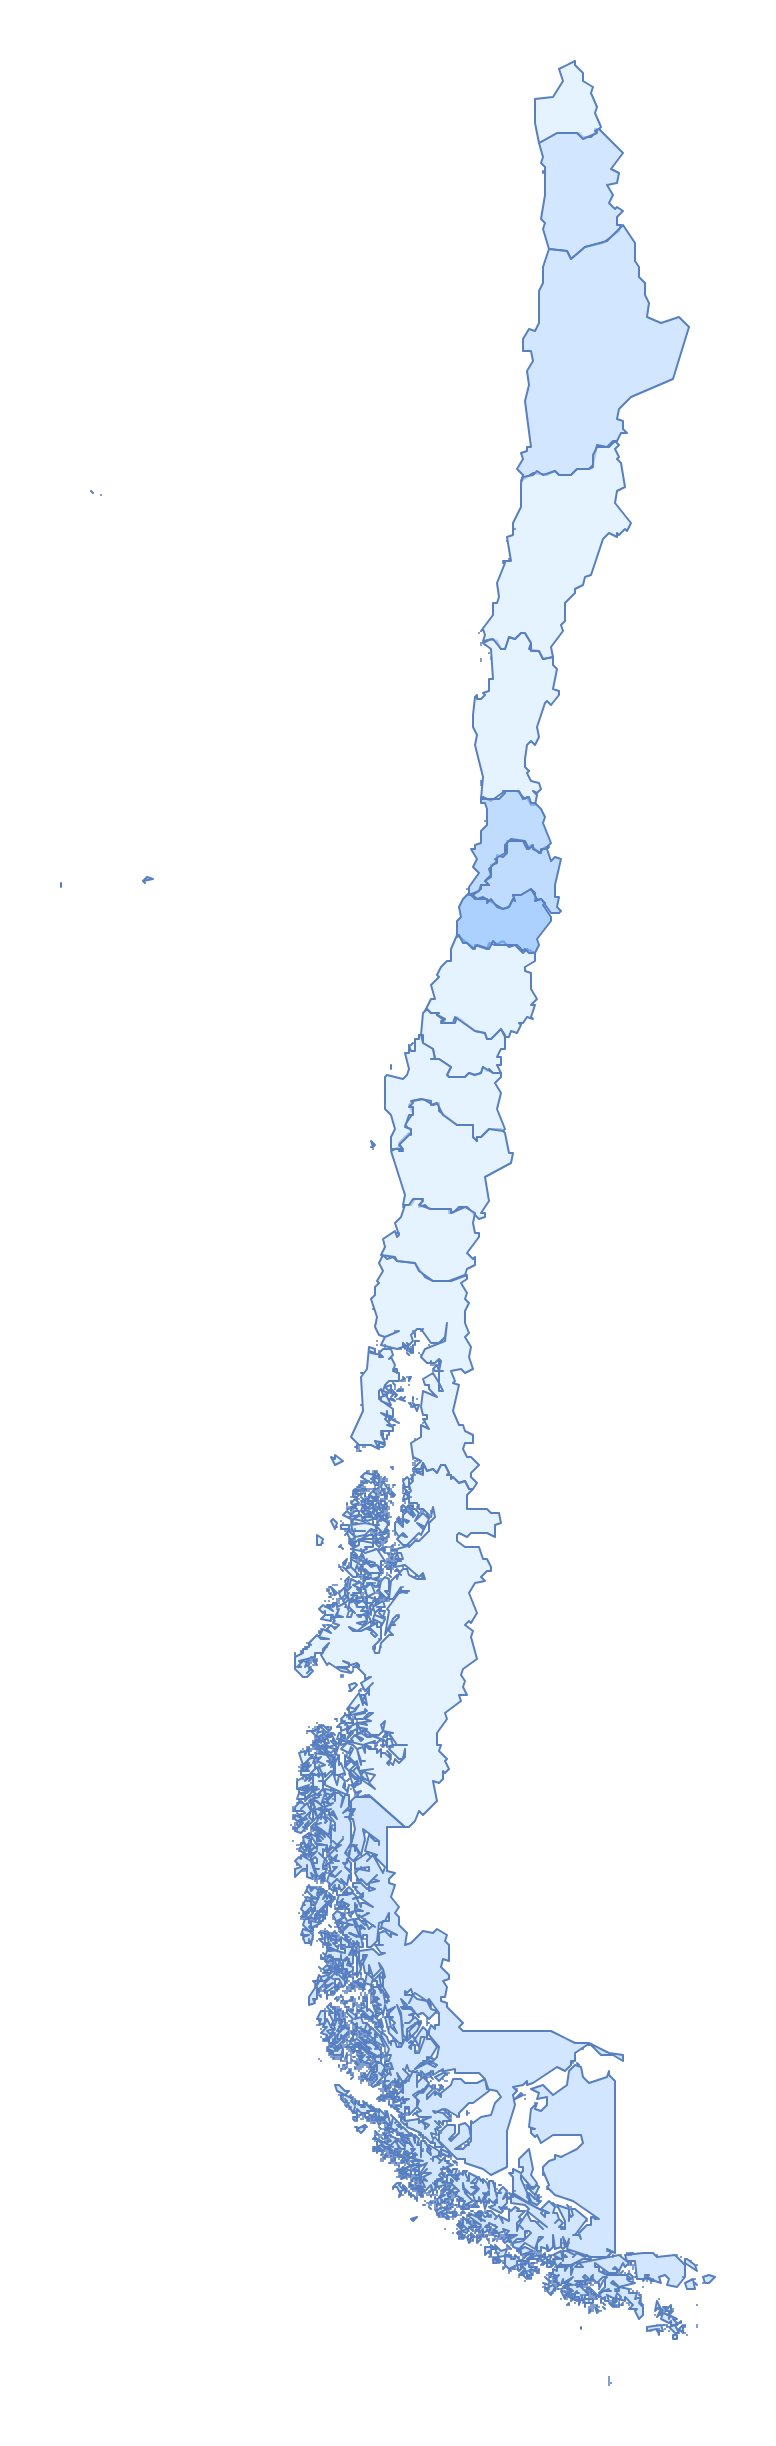
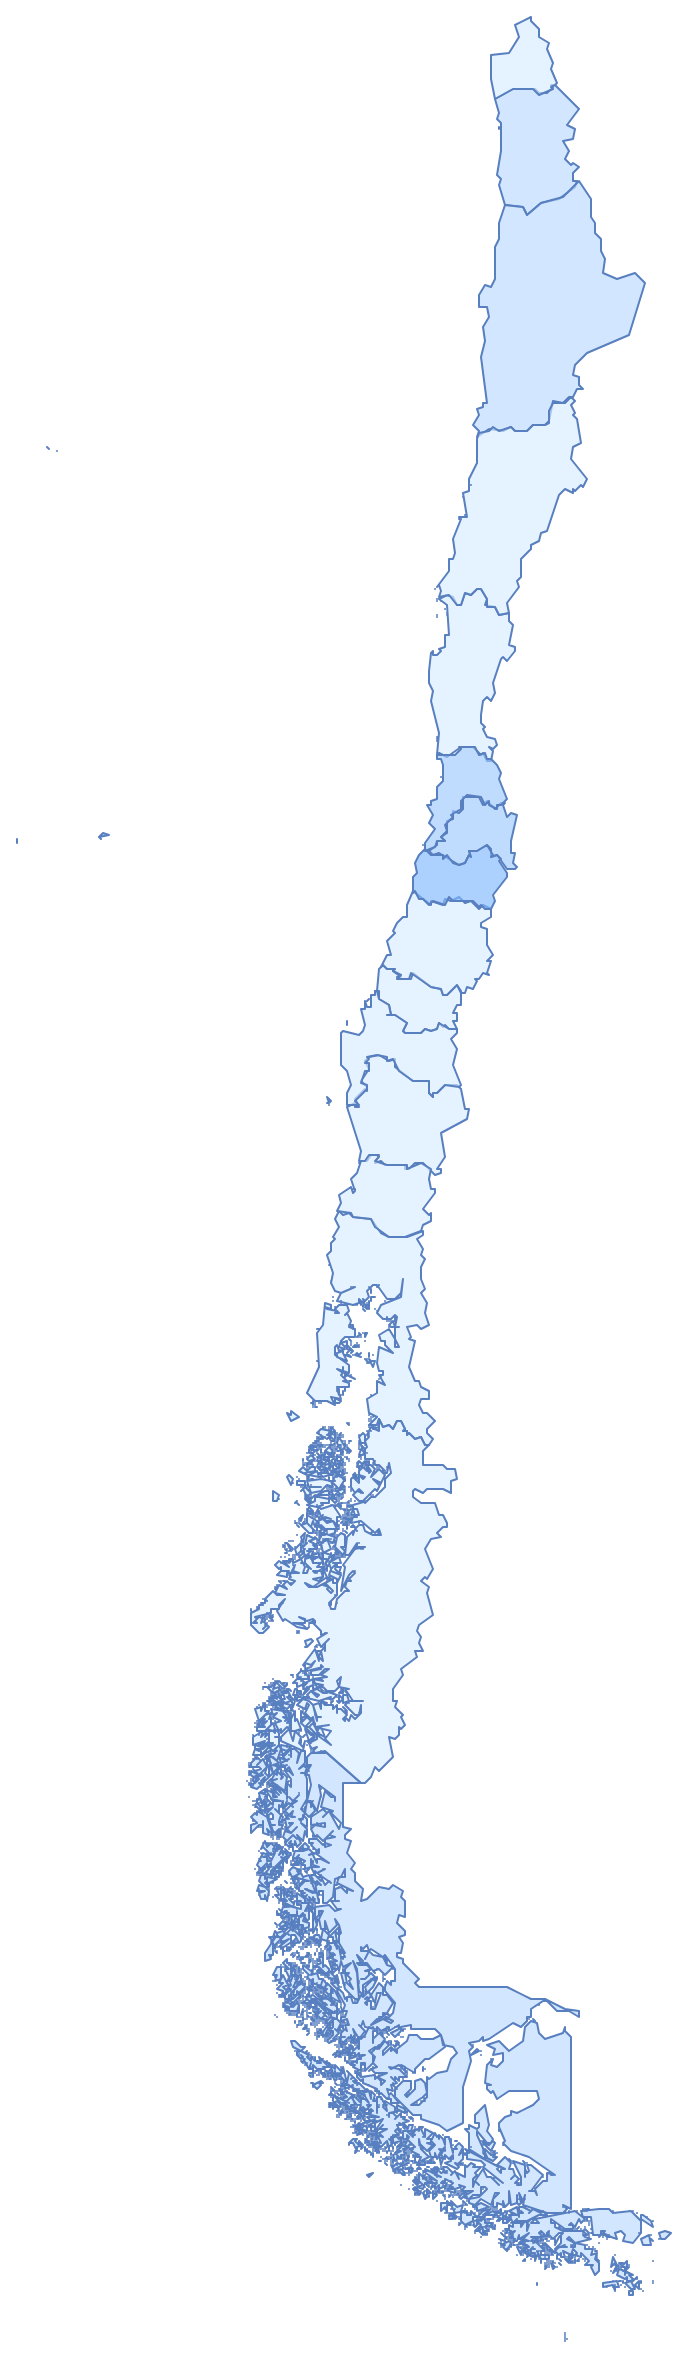
Generate pdf report

Changed region(s): [[0.3663, 0.0, 0.9462, 0.9907]]

diff --git a/pdf_reports/lucero.html b/pdf_reports/lucero.html
@@ -57,26 +57,21 @@
 
    .mapWrap{
   width:100%;
-  height:128mm;
+  height:128mm;        /* mantiene el alto alineado con las tablas */
   overflow:hidden;
   border:none;
   background:transparent;
-
-  display:flex;
-  align-items:flex-end;     /* ancla abajo */
-  justify-content:center;   /* centra horizontal */
 }
 
 .mapImg{
+  width:100%;
   height:100%;
-  width:auto;               /* mantiene proporción, evita recorte lateral */
-  max-width:100%;
-  object-fit: contain;      /* clave: NO recorta */
   display:block;
 
-  transform: scale(1.25);   /* “llena más” sin cortar */
-  transform-origin: 50% 100%;
+  object-fit: cover;        /* clave: rellena el cuadro */
+  object-position: 50% 85%; /* clave: baja el encuadre hacia el sur */
 }
+
 
 
     h2{ font-size:12.5px; margin:0 0 2mm; }
@@ -142,7 +137,7 @@
     <div class="grid">
       <div class="card">
         <div class="mapWrap">
-          <img class="mapImg" src="../pdf_maps/lucero.png?v=1768099117561" alt="Mapa de Chile"/>
+          <img class="mapImg" src="../pdf_maps/lucero.png?v=1768099984564" alt="Mapa de Chile"/>
         </div>
       </div>
 
